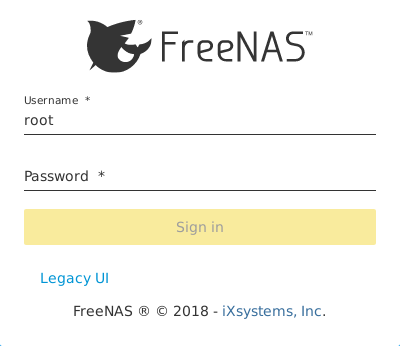
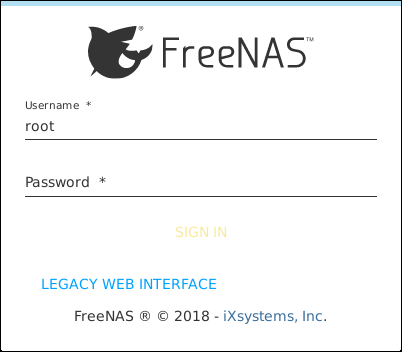
Update quick-login.png and related quick.rst text: Added a single pixel black border to the screenshot to help it contrast with the document background. HTML build test: no issues.

diff --git a/userguide/quick.rst b/userguide/quick.rst
@@ -60,6 +60,7 @@ After the system has an IP address, enter that address into a
 graphical web browser from a computer connected to the same network as
 the %brand% system.
 
+
 .. _Logging_In:
 
 Logging In
@@ -75,7 +76,9 @@ new UI.
 
    Enter the Root Password
 
-To instead log into the legacy UI, click the :guilabel:`Legacy UI` link.
+
+To instead log into the legacy web interface, click the
+:guilabel:`LEGACY WEB INTERFACE` link.
 
 Enter the password for the root user that was chosen during the
 installation. The administrative GUI for the legacy UI is displayed as
@@ -88,9 +91,11 @@ shown in :numref:`Figure %s <quick_graphic_config_menu_fig>`.
 
    %brand% Graphical Configuration Menu
 
+
 .. note:: The rest of this Guide describes the legacy UI. To access the
    Guide for the new UI, log into the new UI and click :guilabel:`Guide`
    or access it online at doc.freenas.org/11.2/freenas.html.
+
 
 If the %brand% system does not respond to the IP address or mDNS name
 entered in a browser:
